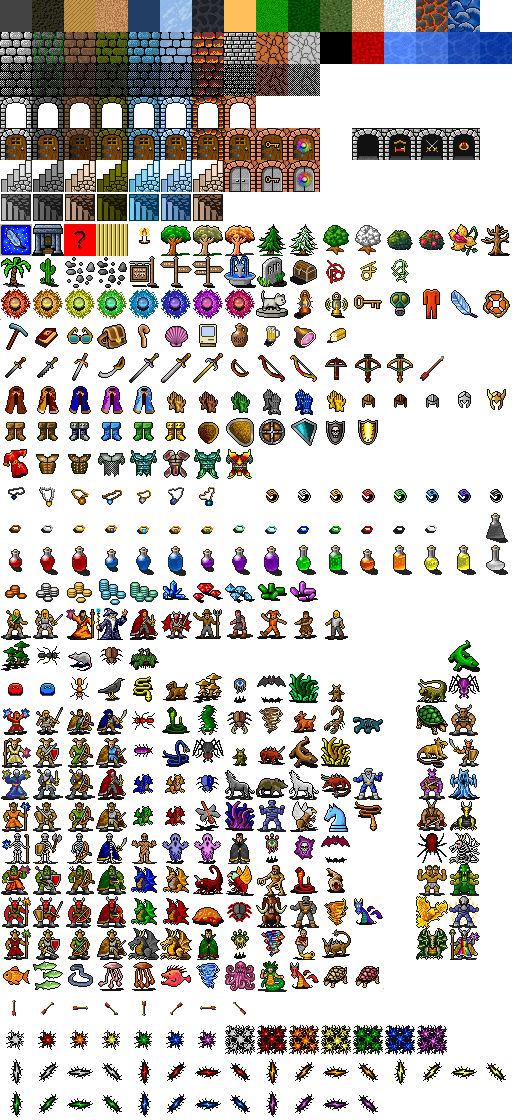
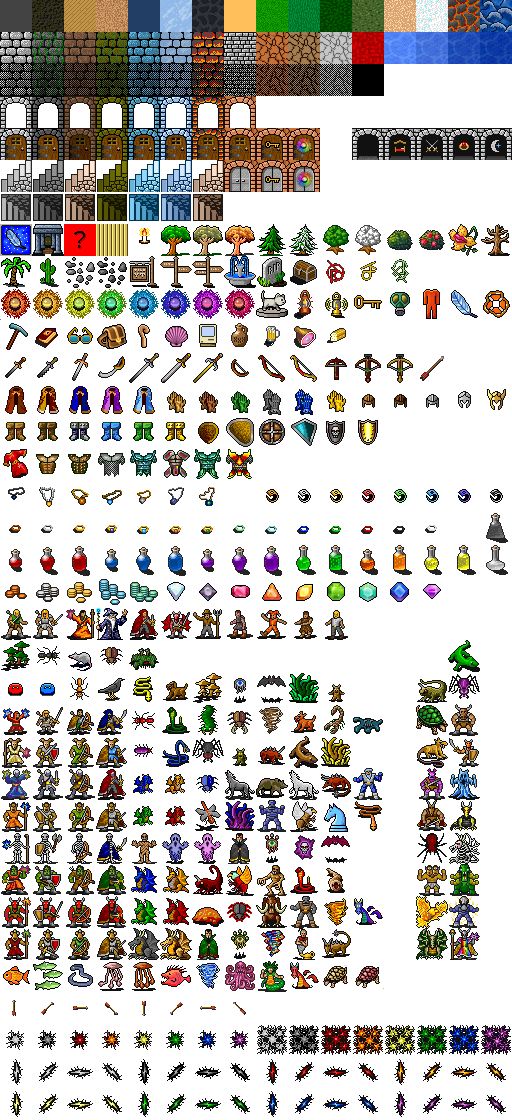
adding new terrain types, gems

diff --git a/src/main/java/pow/backend/dungeon/gen/worldgen/WorldDataGen.java b/src/main/java/pow/backend/dungeon/gen/worldgen/WorldDataGen.java
@@ -382,8 +382,8 @@ public class WorldDataGen {
                 break;
             case "haunted forest":
                 style = new RecursiveInterpolation.MapStyle(
-                        Collections.singletonList(new RecursiveInterpolation.TerrainFeatureTriplet("rock", null, null)),
-                        Collections.singletonList(new RecursiveInterpolation.TerrainFeatureTriplet("forest", "berry bush", "pine tree")),
+                        Collections.singletonList(new RecursiveInterpolation.TerrainFeatureTriplet("tan rock", null, null)),
+                        Collections.singletonList(new RecursiveInterpolation.TerrainFeatureTriplet("tall grass", "berry bush", "tombstone")),
                         STAIRS_UP, DUNGEON_ENTRANCE, false, null, null);
                 break;
             case "volcano":
@@ -394,8 +394,8 @@ public class WorldDataGen {
                 break;
             case "dig desert":
                 style = new RecursiveInterpolation.MapStyle(
-                        Collections.singletonList(new RecursiveInterpolation.TerrainFeatureTriplet("rock", null, null)),
-                        Collections.singletonList(new RecursiveInterpolation.TerrainFeatureTriplet("dark sand", "cactus", "light pebbles")),
+                        Collections.singletonList(new RecursiveInterpolation.TerrainFeatureTriplet("tan rock", null, null)),
+                        Collections.singletonList(new RecursiveInterpolation.TerrainFeatureTriplet("dark sand", "dead tree", "light pebbles")),
                         STAIRS_UP, DUNGEON_ENTRANCE, true,
                         new RecursiveInterpolation.TerrainFeatureTriplet("rock", null, null),
                         new RecursiveInterpolation.TerrainFeatureTriplet("diggable rock", null, null));

diff --git a/src/main/java/pow/backend/dungeon/gen/ItemGenerator.java b/src/main/java/pow/backend/dungeon/gen/ItemGenerator.java
@@ -119,27 +119,6 @@ public class ItemGenerator {
         int[] bonuses;
         String extra;
 
-        private DungeonItem.Flags parseFlags(String text) {
-            String[] tokens = text.split(",", -1);
-
-            boolean potion = false;
-            boolean money = false;
-            boolean arrow = false;
-            for (String t : tokens) {
-                switch (t) {
-                    case "": break;  // will happen if we have an empty string
-                    case "potion": potion = true; break;
-                    case "money": money = true; break;
-                    case "arrow": arrow = true; break;
-                    default:
-                        throw new IllegalArgumentException("unknown item flag '" + t + "'");
-                }
-            }
-
-            return new DungeonItem.Flags(potion, money, arrow);
-        }
-
-
         public static class MinMax {
             public final int min;
             public final int max;
@@ -171,7 +150,7 @@ public class ItemGenerator {
                 image = line[2];
                 description = line[3];
                 slot = DungeonItem.Slot.valueOf(line[4].toUpperCase());
-                flags = parseFlags(line[5]);
+                flags = ParseUtils.parseFlags(line[5]);
                 actionParams = ParseUtils.parseActionParams(line[6]);
                 count = new MinMax(line[7]);
                 minLevel = Integer.parseInt(line[8]);

diff --git a/src/main/java/pow/backend/dungeon/gen/ParseUtils.java b/src/main/java/pow/backend/dungeon/gen/ParseUtils.java
@@ -58,17 +58,20 @@ public class ParseUtils {
         boolean potion = false;
         boolean money = false;
         boolean arrow = false;
+        boolean gem = false;
         for (String t : tokens) {
             switch (t) {
                 case "": break;  // will happen if we have an empty string
                 case "potion": potion = true; break;
                 case "money": money = true; break;
                 case "arrow": arrow = true; break;
-                default: throw new IllegalArgumentException("unknown item flag '" + t + "'");
+                case "gem": gem = true; break;
+                default:
+                    throw new IllegalArgumentException("unknown item flag '" + t + "'");
             }
         }
 
-        return new DungeonItem.Flags(potion, money, arrow);
+        return new DungeonItem.Flags(potion, money, arrow, gem);
     }
 
     public static ActionParams parseActionParams(String text) {

diff --git a/src/main/java/pow/backend/dungeon/DungeonItem.java b/src/main/java/pow/backend/dungeon/DungeonItem.java
@@ -12,14 +12,17 @@ public class DungeonItem implements Comparable<DungeonItem>, Serializable {
         public final boolean potion;
         public final boolean money;
         public final boolean arrow;
+        public final boolean gem;
 
         public Flags(
                 boolean potion,
                 boolean money,
-                boolean arrow) {
+                boolean arrow,
+                boolean gem) {
             this.potion = potion;
             this.money = money;
             this.arrow = arrow;
+            this.gem = gem;
         }
     }
 
